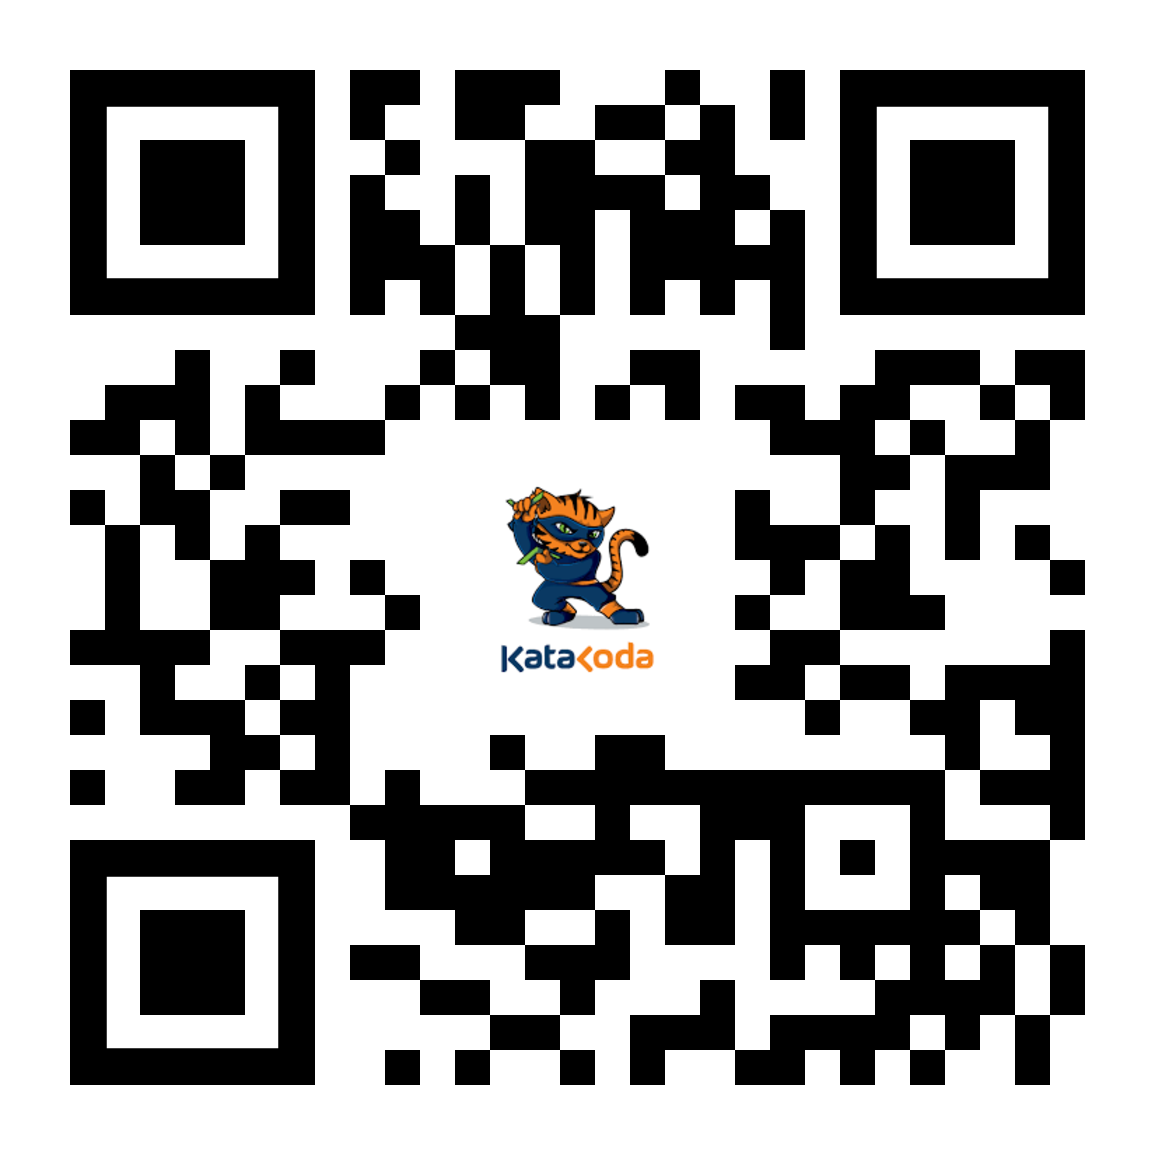
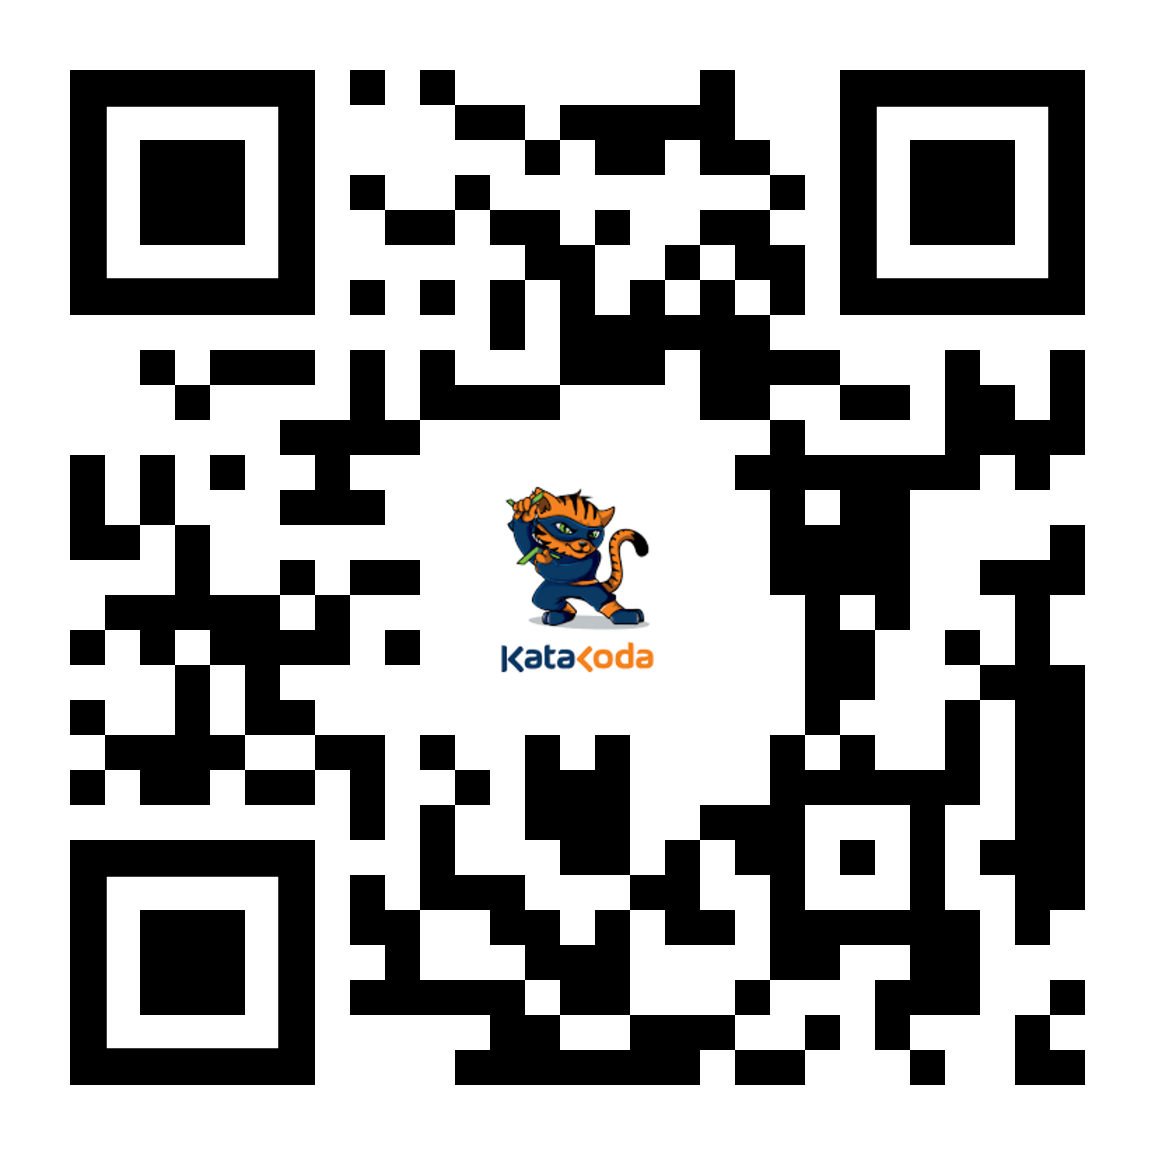
fix(kafkaConnect): Update qrCode and link

Changed region(s): [[0.0623, 0.0623, 0.9662, 0.9662], [0.9039, 0.9039, 0.9662, 0.9662], [0.4987, 0.8416, 0.561, 0.8727]]

diff --git a/index.html b/index.html
@@ -237,10 +237,10 @@
 					<img style="background-color: lightgray;" src="img/kafka-connect-final-scn.png">
 				</section>
 				<section data-background-image="img/bg-kafka.png" data-background-opacity="0.05"><h1>Questions</h1></section>
-				<section data-background-iframe="http://bit.ly/3k4d3z9" data-background-opacity="0.1">
+				<section data-background-iframe="http://bit.ly/3fj4bW4" data-background-opacity="0.1">
 					<h3>scénario <span style="color: orange">Katacoda</span></h3>
 					<img src="img/katacoda_qrcode.png" width="300" height="300"><br>
-					<a>http://bit.ly/3k4d3z9</a>
+					<a>http://bit.ly/3fj4bW4</a>
 				</section>
 			</div>
 		</div>
